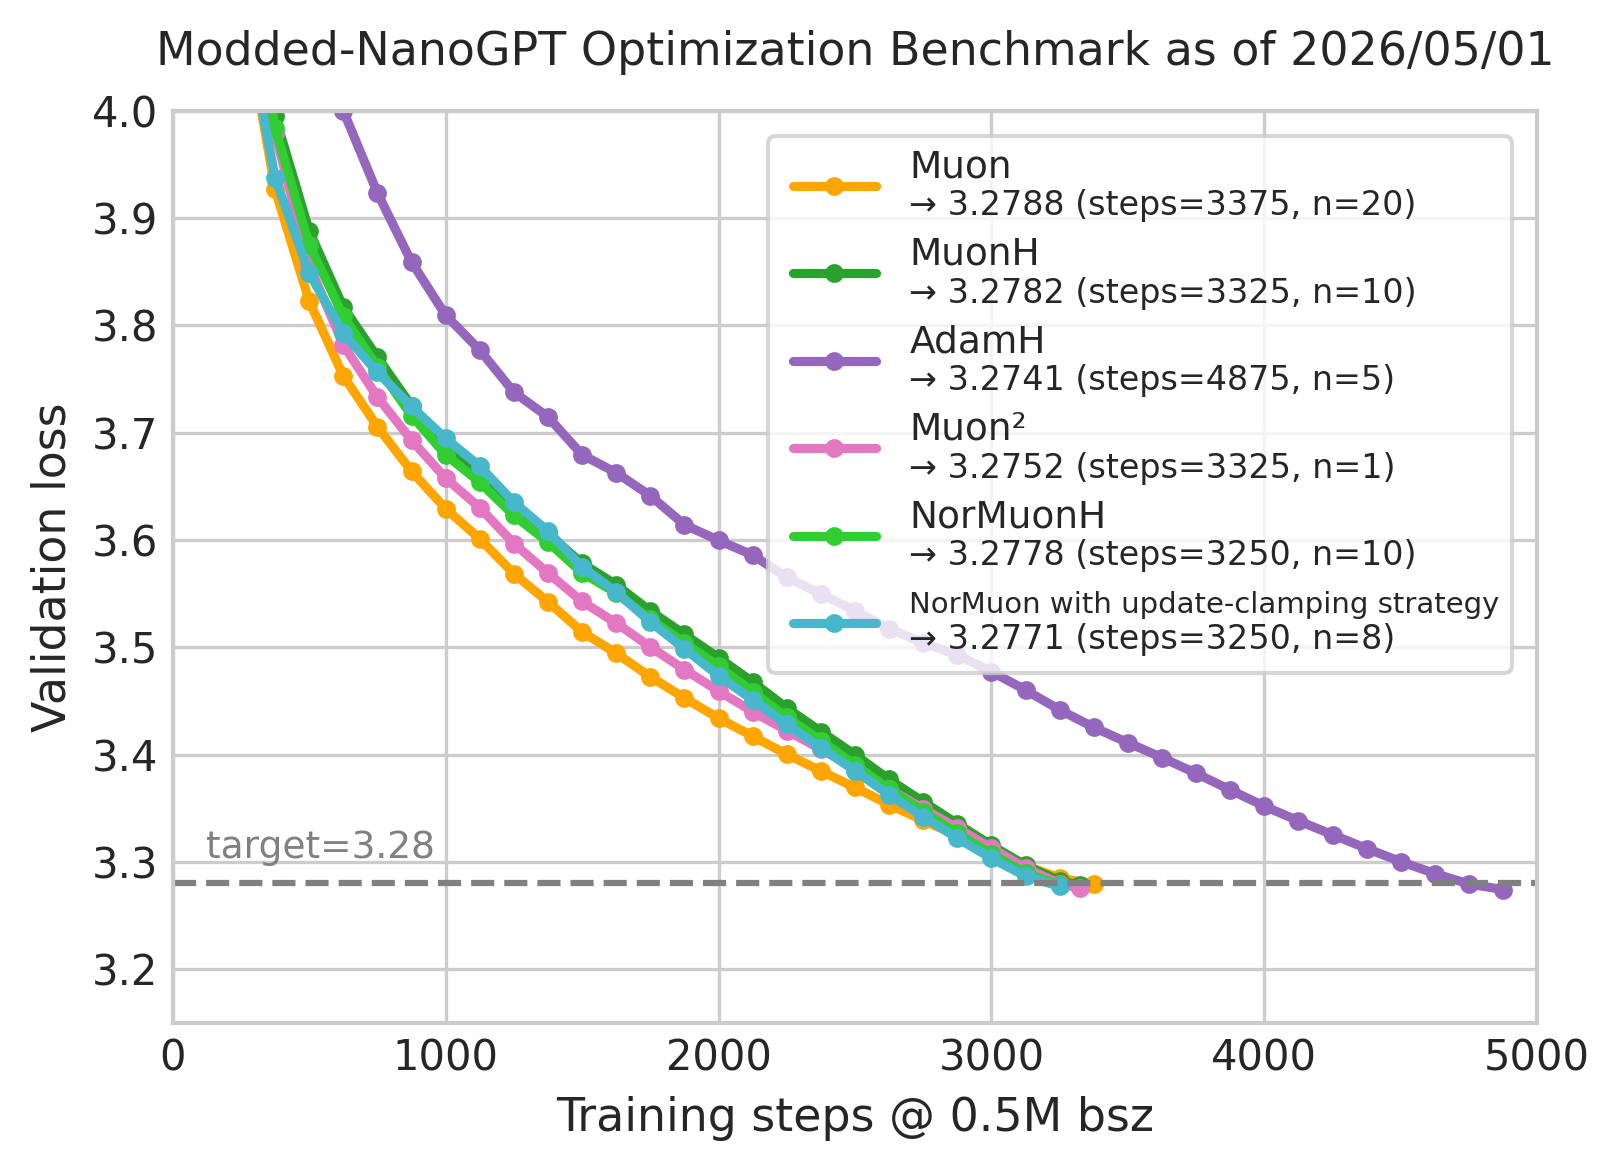
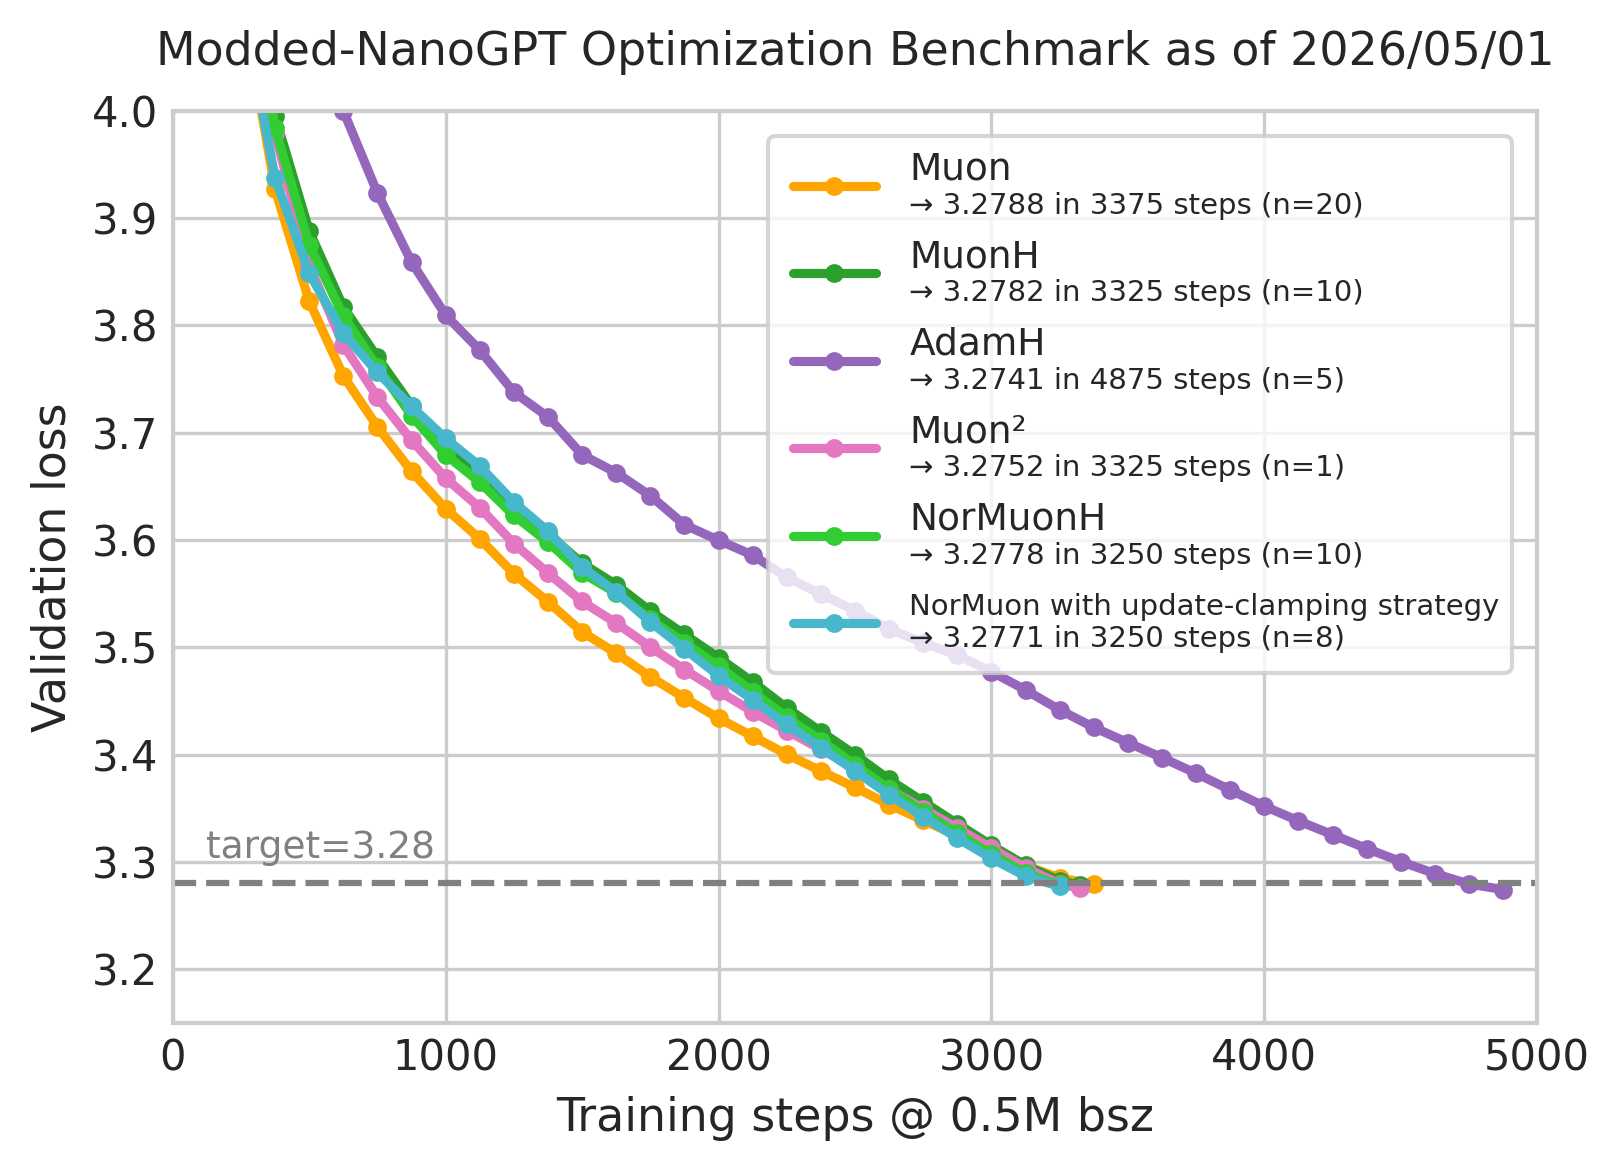
.

Changed region(s): [[0.5556, 0.2152, 0.9259, 0.5534], [0.5556, 0.123, 0.8642, 0.1845]]

diff --git a/records/track_3_optimization/make_figures.py b/records/track_3_optimization/make_figures.py
@@ -46,7 +46,7 @@ def color_from_title(title):
 
 def format_evidence(evidence, steps_to_target):
     evidence = re.sub(r'[✓✔✅Ⓧ]', '', evidence).strip()
-    return re.sub(r'\((n=\d+)\)', f'(steps={steps_to_target}, \\1)', evidence)
+    return re.sub(r'\((n=\d+)\)', f'in {steps_to_target} steps (\\1)', evidence)
 
 
 def add_legend(ax, legend_entries):
@@ -66,7 +66,7 @@ def add_legend(ax, legend_entries):
         text = VPacker(
             children=[
                 TextArea(label, textprops={'fontsize': label_size}),
-                TextArea(evidence, textprops={'fontsize': 8}),
+                TextArea(evidence, textprops={'fontsize': 7}),
             ],
             align='left',
             pad=0,

diff --git a/records/track_3_optimization/README.md b/records/track_3_optimization/README.md
@@ -5,7 +5,7 @@ Unlike the main NanoGPT speedrun which seeks to minimize *wallclock time* by any
 
 ## Quickstart
 
-The baseline can be run using the following command on any {1,2,4,8}x-{A,H}100 machine:
+The baseline setup (Muon with aux Adam) can be run using the following command on any {1,2,4,8}x-{A,H}100 machine:
 ```bash
 git clone https://github.com/KellerJordan/modded-nanogpt.git && cd modded-nanogpt
 pip install torch==2.11 huggingface_hub
